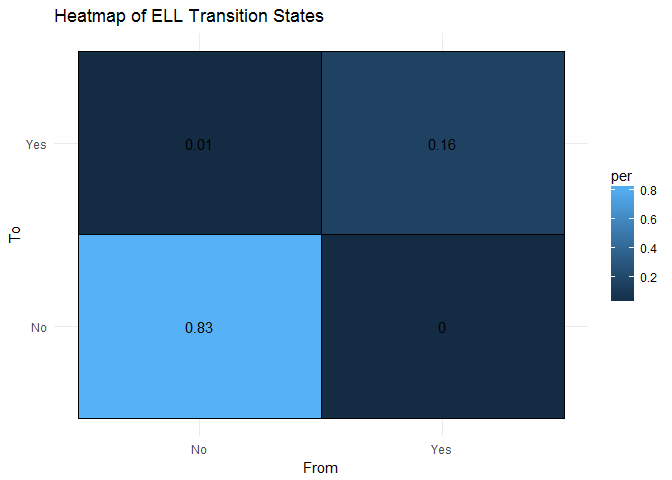
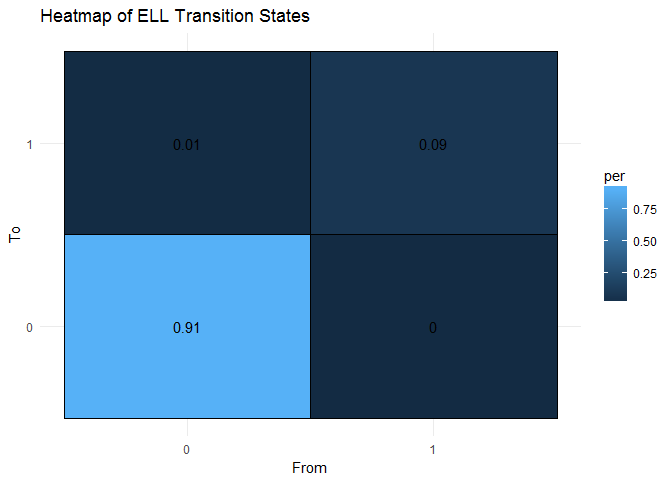
better tms and utility documentation

diff --git a/README.md b/README.md
@@ -31,43 +31,48 @@ Ljoad the package
 
 ``` r
 library(OpenSDP.data)
+#> Loading required package: dplyr
+#> 
+#> Attaching package: 'dplyr'
+#> The following objects are masked from 'package:stats':
+#> 
+#>     filter, lag
+#> The following objects are masked from 'package:base':
+#> 
+#>     intersect, setdiff, setequal, union
 ```
 
 ``` r
-out <- popsim_control(200, seed = 213)
+out <- simpop(200, seed = 213)
 #> Preparing student identities for 200 students...
 #> Creating annual enrollment for 200 students...
-#> Assigning 200 students to initial ELL status...
-#> Assigning 200 students to initial SES status...
+#> Assigning 200 students to initial FRPL, IEP, and ELL status
 #> Organizing status variables for you...
 #> Assigning 200 students longitudinal status trajectories...
 #> Sorting your records
 #> Cleaning up...
+#> Assiging grades...
 #> Success! Returning you student and student-year data in a list.
-head(out$demog_master %>% arrange(sid) %>% select(1:4, ses))
-#>   sid    Sex  Birthdate                         Race ses
-#> 1 001 Female 1995-01-25 Hispanic or Latino Ethnicity Yes
-#> 2 002 Female 1992-08-24                        White Yes
-#> 3 003 Female 1992-05-17    Black or African American Yes
-#> 4 004 Female 1997-04-01                        White  No
-#> 5 005 Female 1992-06-16                        White  No
-#> 6 006 Female 1995-08-29                        White  No
+head(out$demog_master %>% arrange(sid) %>% select(1:4))
+#>   sid    Sex  Birthdate                         Race
+#> 1 001 Female 1995-01-25 Hispanic or Latino Ethnicity
+#> 2 002 Female 1992-08-24                        White
+#> 3 003 Female 1992-05-17    Black or African American
+#> 4 004 Female 1997-04-01                        White
+#> 5 005 Female 1992-06-16                        White
+#> 6 006 Female 1995-08-29                        White
 head(out$stu_year, 10)
-#> Source: local data frame [10 x 7]
-#> Groups: sid [1]
-#> 
-#>       sid  year   age   ses   ell   iep gifted
-#>    <fctr> <int> <dbl> <chr> <chr> <chr>  <chr>
-#> 1     001  1999     5   Yes    No   Yes     No
-#> 2     001  2000     6   Yes    No   Yes     No
-#> 3     001  2001     7   Yes    No   Yes     No
-#> 4     001  2002     8   Yes    No   Yes     No
-#> 5     001  2003     9   Yes    No   Yes     No
-#> 6     001  2004    10    No    No   Yes     No
-#> 7     001  2005    11    No    No   Yes     No
-#> 8     001  2006    12    No    No   Yes     No
-#> 9     001  2007    13    No    No   Yes     No
-#> 10    001  2008    14    No    No   Yes     No
+#>    sid year age frpl ell iep gifted grade
+#> 1  001 1999   5    0   0   0      0    KG
+#> 2  001 2000   6    0   0   0      0     1
+#> 3  001 2001   7    0   0   0      0     2
+#> 4  001 2002   8    0   0   0      0     3
+#> 5  001 2003   9    0   0   0      0     3
+#> 6  001 2004  10    0   0   0      0     4
+#> 7  001 2005  11    0   0   1      0     6
+#> 8  001 2006  12    0   0   1      0     6
+#> 9  001 2007  13    0   0   1      0     8
+#> 10 001 2008  14    0   0   0      0     9
 ```
 
 Parameters
@@ -78,7 +83,7 @@ Default parameters can be modified by the user:
 ``` r
 names(sim_control())
 #> [1] "race_groups" "race_prob"   "minyear"     "maxyear"     "gifted_list"
-#> [6] "iep_list"    "ses_list"    "ell_list"
+#> [6] "iep_list"    "ses_list"    "ell_list"    "n_cohorts"
 sim_control()$ell_list
 #> $ALL
 #> $ALL$f
@@ -98,9 +103,9 @@ sim_control()$ell_list
 #> 
 #> $ALL$pars
 #> $ALL$pars$tm
-#>            Yes         No
-#> Yes 0.97560976 0.02439024
-#> No  0.00621118 0.99378882
+#>            1          0
+#> 1 0.97560976 0.02439024
+#> 0 0.00621118 0.99378882
 #> 
 #> 
 #> 
@@ -129,7 +134,7 @@ get_baseline("ses")
 #> $fun
 #> function (x) 
 #> rbinom(1, 1, x)
-#> <environment: 0x0000000010490920>
+#> <environment: 0x000000001f3f6200>
 ```
 
 ### Diagnostics
@@ -140,7 +145,7 @@ How do we know it worked? We can look at the patterns of ELL enrollment that are
 library(ggplot2)
 library(tidyr)
 plotdf <- stu_year %>% arrange(sid, year) %>% group_by(sid) %>% 
-  do(tidy_sequence(.$ell, states = c("Yes", "No")))
+  do(tidy_sequence(.$ell, states = c(1, 0)))
 
 plotdf$total <- rowSums(plotdf[, -1])
 plotdf <- plotdf %>% gather(-sid, key = "Transition", value = "Count")
@@ -218,28 +223,28 @@ test_res <- stu_year %>% group_by(sid) %>%
 table(test_res$fit_ok)
 #> 
 #> FALSE  TRUE 
-#>    28   172
+#>    21   179
 ```
 
 Let's look at co-occurrence of status over time.
 
 ``` r
 # Look at by year patterns of relationships by student year
-table(FRL = stu_year$ses, GIFTED = stu_year$gifted)
-#>      GIFTED
-#> FRL     No  Yes
-#>   No  1155  142
-#>   Yes 2204  293
-table(FRL = stu_year$ses, IEP = stu_year$iep)
-#>      IEP
-#> FRL     No  Yes
-#>   No   783  514
-#>   Yes 1437 1060
-table(FRL = stu_year$gifted, IEP = stu_year$iep)
-#>      IEP
-#> FRL     No  Yes
-#>   No  1987 1372
-#>   Yes  233  202
+table(FRL = stu_year$frpl, GIFTED = stu_year$gifted)
+#>    GIFTED
+#> FRL    0    1
+#>   0 1903  188
+#>   1 1537  166
+table(FRL = stu_year$frpl, IEP = stu_year$iep)
+#>    IEP
+#> FRL    0    1
+#>   0 1078 1013
+#>   1  926  777
+table(GIFTED = stu_year$gifted, IEP = stu_year$iep)
+#>       IEP
+#> GIFTED    0    1
+#>      0 1782 1658
+#>      1  222  132
 ```
 
 Let's check polychoric correlations:
@@ -247,40 +252,40 @@ Let's check polychoric correlations:
 ``` r
 gamma_GK(stu_year$gifted, stu_year$iep)
 #> $gamma
-#> [1] 0.1133042
+#> [1] -0.2202089
 #> 
 #> $se
-#> [1] 0.07207095
+#> [1] 0.07735497
 #> 
 #> $z
-#> [1] 1.57212
+#> [1] -2.846732
 #> 
 #> $sig
-#> [1] 0.1159226
-gamma_GK(stu_year$ses, stu_year$iep)
+#> [1] 0.004417057
+gamma_GK(stu_year$frpl, stu_year$iep)
 #> $gamma
-#> [1] 0.05824437
+#> [1] -0.05656089
 #> 
 #> $se
-#> [1] 0.049097
+#> [1] 0.04615034
 #> 
 #> $z
-#> [1] 1.186312
+#> [1] -1.225579
 #> 
 #> $sig
-#> [1] 0.235499
-gamma_GK(stu_year$ses, stu_year$ell)
+#> [1] 0.2203572
+gamma_GK(stu_year$frpl, stu_year$ell)
 #> $gamma
-#> [1] 0.02424722
+#> [1] -0.1620324
 #> 
 #> $se
-#> [1] 0.06514072
+#> [1] 0.07966763
 #> 
 #> $z
-#> [1] 0.3722283
+#> [1] -2.033855
 #> 
 #> $sig
-#> [1] 0.7097229
+#> [1] 0.04196626
 ```
 
 Finally, let's see who winds up "ever" in each category
@@ -288,28 +293,33 @@ Finally, let's see who winds up "ever" in each category
 ``` r
 
 test_df <- stu_year %>% group_by(sid) %>% 
-  summarize(iep_ever = if_else(any(iep == "Yes"), "Yes", "No"), 
-            ell_ever = if_else(any(ell == "Yes"), "Yes", "No"), 
-            frpl_ever = if_else(any(ses == "Yes"), "Yes", "No"), 
-            gifted_ever = if_else(any(gifted == "Yes"), "Yes", "No"))
+  summarize(iep_ever = if_else(any(iep == 1), "Yes", "No"), 
+            ell_ever = if_else(any(ell == 1), "Yes", "No"), 
+            frpl_ever = if_else(any(frpl == 1), "Yes", "No"), 
+            gifted_ever = if_else(any(gifted == 1), "Yes", "No"))
 
 table(IEP_EVER = test_df$iep_ever)
 #> IEP_EVER
 #>  No Yes 
-#>  10 190
+#>   8 192
 table(ELL_EVER = test_df$ell_ever)
 #> ELL_EVER
 #>  No Yes 
-#> 152  48
+#> 169  31
 table(FRPL_EVER = test_df$frpl_ever)
 #> FRPL_EVER
 #>  No Yes 
-#>   1 199
+#>  23 177
 table(GIFTED_EVER = test_df$gifted_ever)
 #> GIFTED_EVER
 #>  No Yes 
-#> 167  33
+#> 182  18
 ```
+
+Assigning Schools and Outcomes
+------------------------------
+
+Students move through grades, schools, and outcomes.
 
 Package Dependencies
 --------------------
